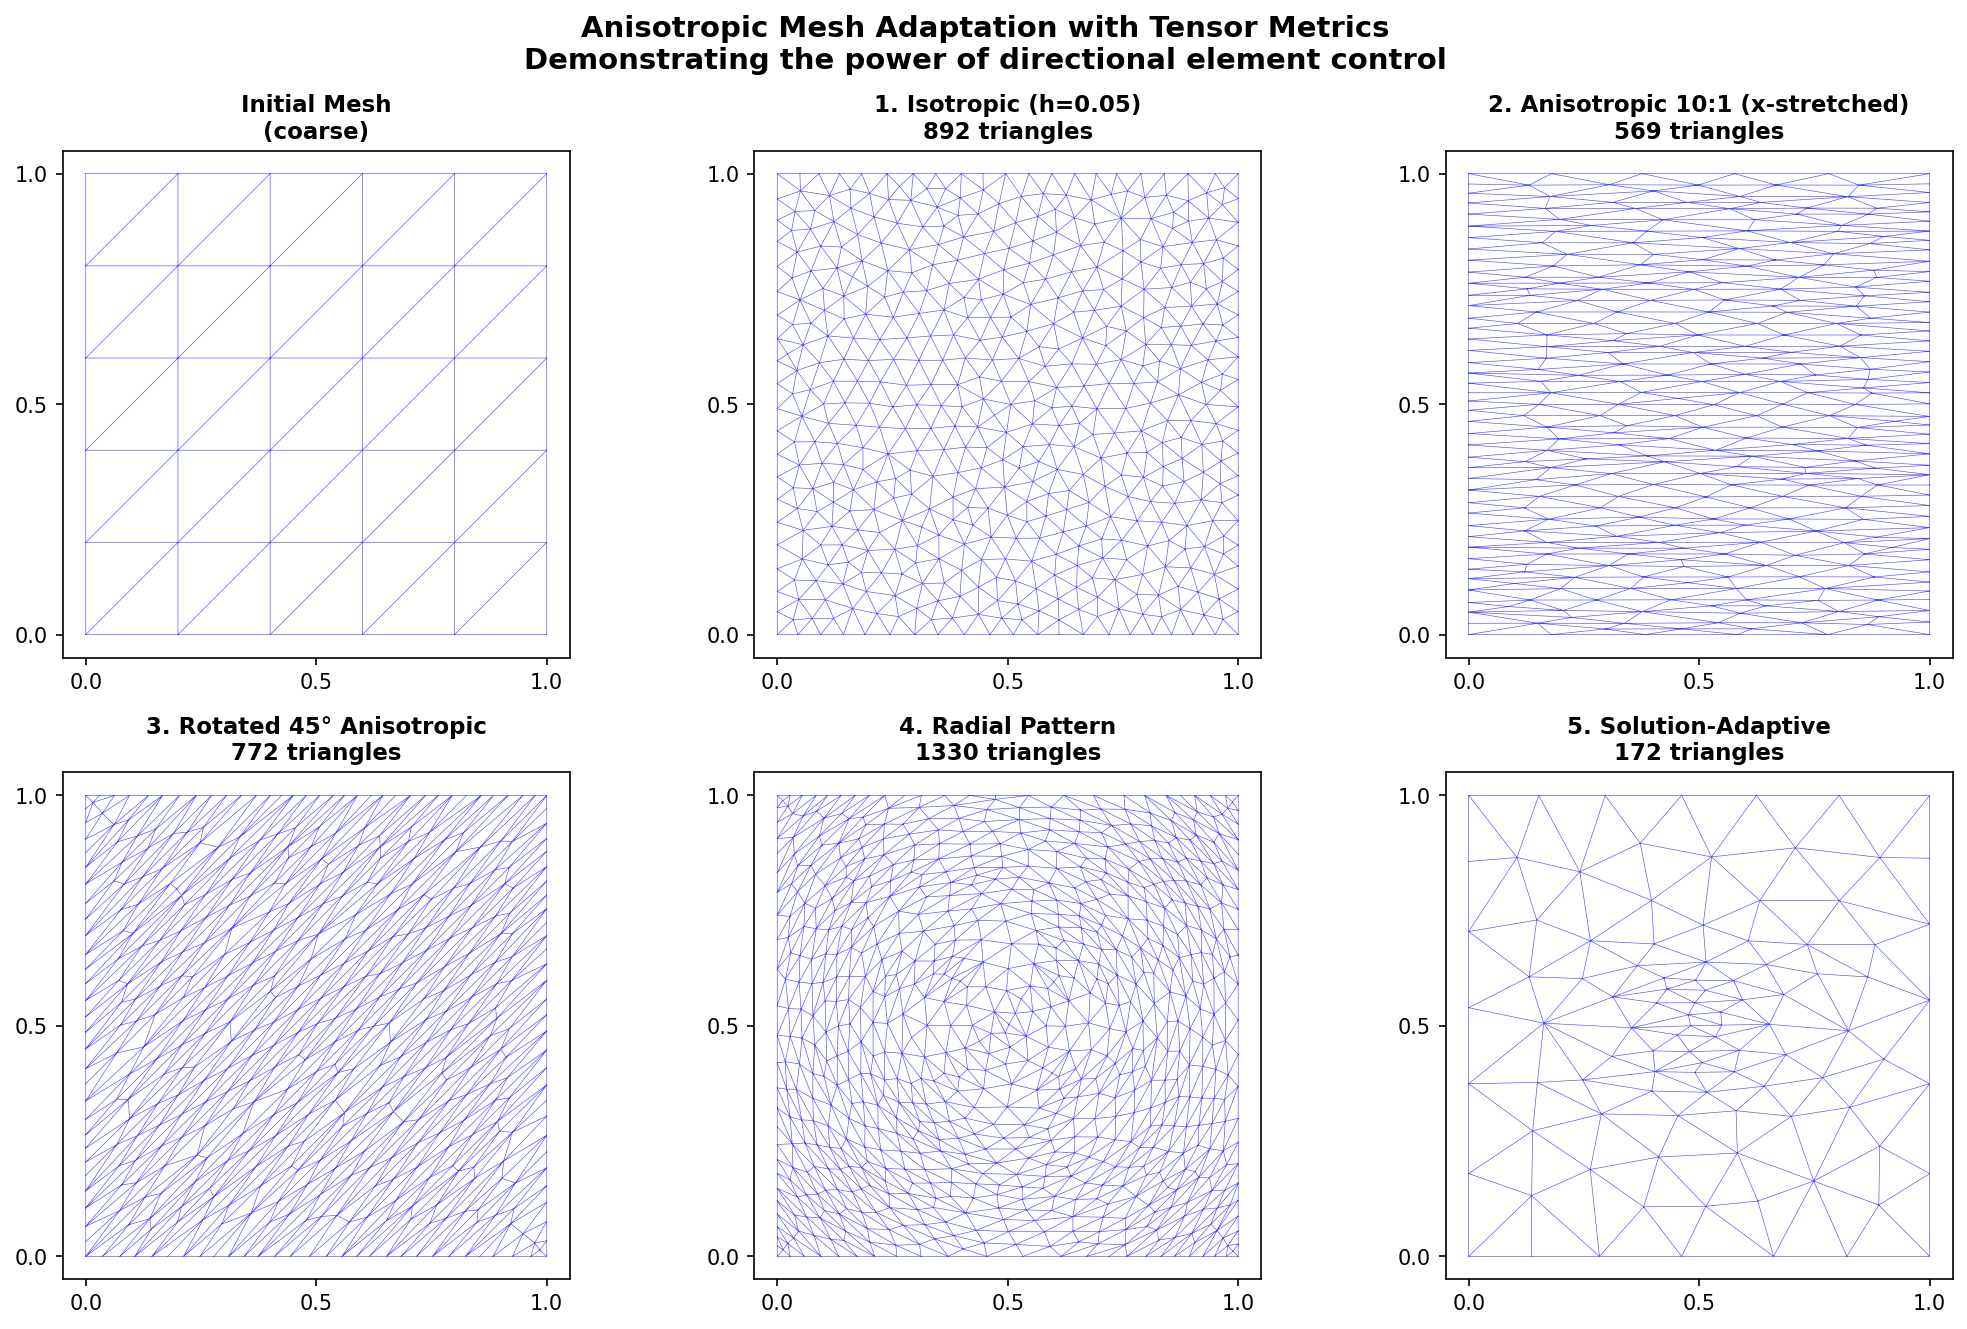
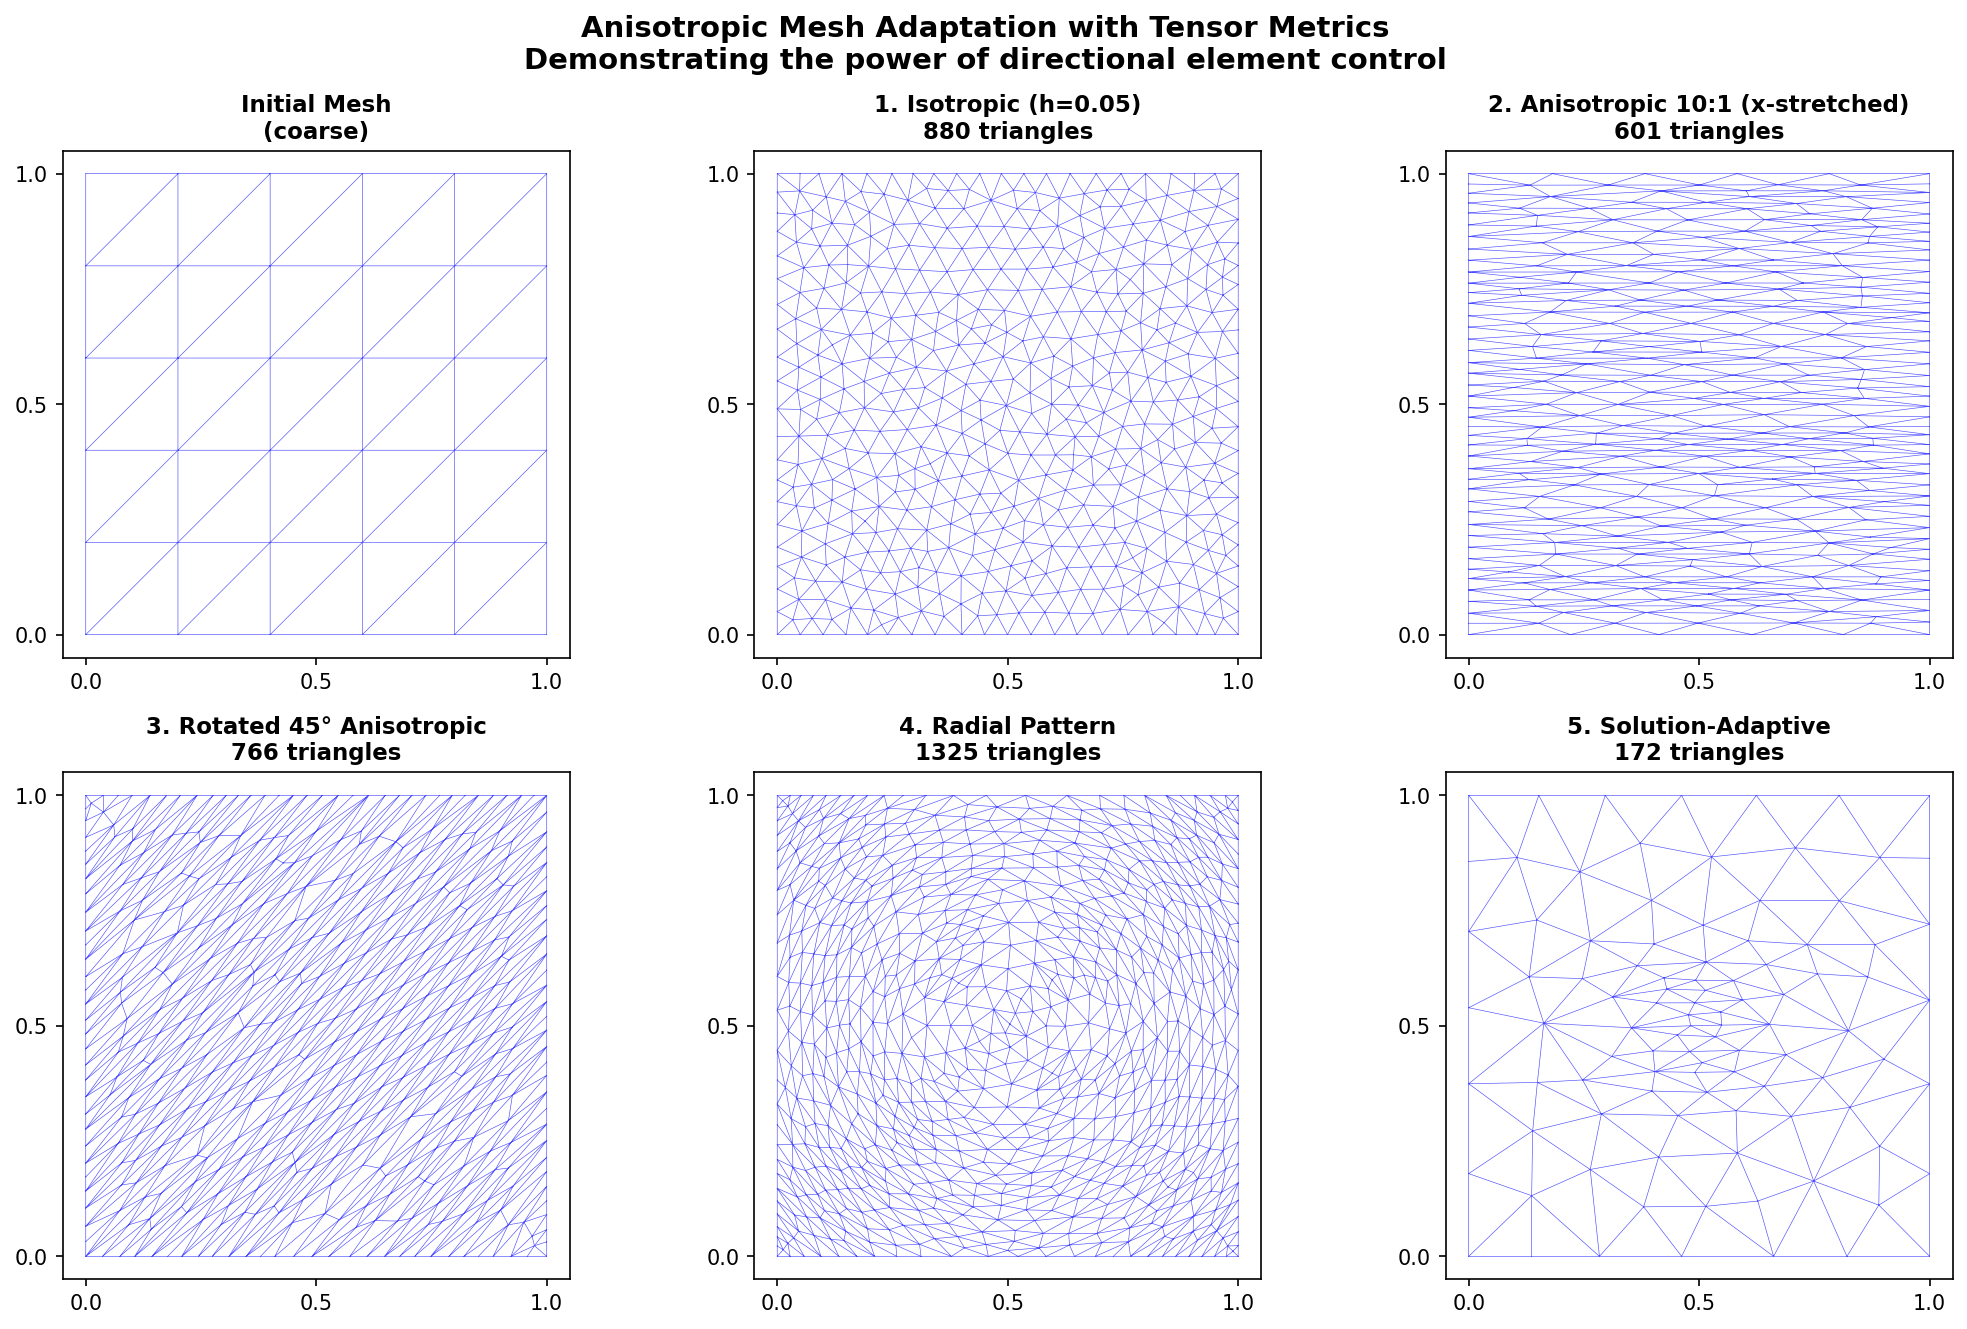
feat(pv-plugin): close remaining Mesh gaps on .mmg accessor
Adds the MMG-specific operations that have no native PyVista equivalent
and would otherwise block deprecation:

- adjacent_elements(idx): MMG's 1-based element adjacency, distinct from
  PyVista's cell_neighbors which uses VTK 0-based topology.
- vertex_neighbors(idx): MMG's 1-based vertex adjacency, distinct from
  PyVista's point_neighbors.
- center_of_mass(): volume-weighted (3D) or area-weighted (2D/surface)
  centroid; PyVista's dataset.center is the unweighted arithmetic mean.

Mesh.checkpoint() and Mesh.update_from() are intentionally NOT mirrored:
the accessor's stateless return-a-new-dataset model makes them moot —
users keep snapshots via Python variable assignment and dataset.copy().
The migration guide in the deprecation PR will cover this.

diff --git a/src/mmgpy/_pv_plugin.py b/src/mmgpy/_pv_plugin.py
@@ -468,5 +468,38 @@ class MmgAccessor:
 
         return Mesh(self._dataset).get_element_qualities()
 
+    def adjacent_elements(self, idx: int) -> NDArray[np.int32]:
+        """Return MMG-adjacency neighbors of element *idx* (1-indexed).
+
+        Distinct from :meth:`pyvista.DataSet.cell_neighbors`, which uses
+        VTK's 0-based topology. Useful when migrating code that relied on
+        ``Mesh.get_adjacent_elements``.
+        """
+        from mmgpy._mesh import Mesh  # noqa: PLC0415
+
+        return Mesh(self._dataset).get_adjacent_elements(idx)
+
+    def vertex_neighbors(self, idx: int) -> NDArray[np.int32]:
+        """Return MMG-adjacency neighbors of vertex *idx* (1-indexed).
+
+        Distinct from :meth:`pyvista.DataSet.point_neighbors`, which uses
+        VTK's 0-based topology. Useful when migrating code that relied on
+        ``Mesh.get_vertex_neighbors``.
+        """
+        from mmgpy._mesh import Mesh  # noqa: PLC0415
+
+        return Mesh(self._dataset).get_vertex_neighbors(idx)
+
+    def center_of_mass(self) -> NDArray[np.float64]:
+        """Return the volume-weighted (3D) or area-weighted (2D/surface) centroid.
+
+        Distinct from :attr:`pyvista.DataSet.center`, which is the
+        arithmetic mean of point coordinates without volume/area
+        weighting.
+        """
+        from mmgpy._mesh import Mesh  # noqa: PLC0415
+
+        return Mesh(self._dataset).get_center_of_mass()
+
 
 __all__ = ["MmgAccessor", "read_mesh", "write_mesh"]

diff --git a/tests/pv_plugin_test.py b/tests/pv_plugin_test.py
@@ -350,6 +350,36 @@ def test_accessor_remesh_local_sizing_densifies_region() -> None:
     assert constrained.n_cells > baseline.n_cells
 
 
+def test_accessor_adjacent_elements_returns_neighbors() -> None:
+    """adjacent_elements returns MMG's 1-based element-to-element adjacency."""
+    tets = _make_tet_mesh()
+    neighbors = tets.mmg.adjacent_elements(1)
+
+    assert isinstance(neighbors, np.ndarray)
+    assert neighbors.dtype == np.int32
+
+
+def test_accessor_vertex_neighbors_returns_neighbors() -> None:
+    """vertex_neighbors returns MMG's 1-based vertex-to-vertex adjacency."""
+    tets = _make_tet_mesh()
+    neighbors = tets.mmg.vertex_neighbors(1)
+
+    assert isinstance(neighbors, np.ndarray)
+    assert neighbors.dtype == np.int32
+    assert len(neighbors) > 0
+
+
+def test_accessor_center_of_mass_is_weighted() -> None:
+    """center_of_mass returns the volume-weighted centroid for tet meshes."""
+    tets = _dense_tets()
+    weighted = tets.mmg.center_of_mass()
+
+    assert weighted.shape == (3,)
+    # Cube centered at (0.5, 0.5, 0.5) — both arithmetic and weighted means
+    # should be near the center, but the weighted variant should not crash.
+    np.testing.assert_allclose(weighted, np.array([0.5, 0.5, 0.5]), atol=0.05)
+
+
 def test_accessor_remesh_unknown_local_sizing_shape_raises() -> None:
     """An unrecognized 'shape' key in a sizing spec raises ValueError."""
     surf = _make_surface_mesh()

diff --git a/docs/tutorials/pyvista-integration.md b/docs/tutorials/pyvista-integration.md
@@ -383,6 +383,16 @@ print(report.quality.mean, report.is_valid)
 qualities = mesh.mmg.element_qualities()
 ```
 
+### MMG-specific topology and centroid
+
+PyVista exposes 0-based VTK adjacency via `dataset.cell_neighbors(idx)` and `dataset.point_neighbors(idx)`. When you specifically need MMG's 1-based adjacency or its volume/area-weighted centroid (distinct from `dataset.center`, which is the unweighted arithmetic mean), use the accessor:
+
+```python
+mesh.mmg.adjacent_elements(1)   # MMG-adjacent elements of element 1
+mesh.mmg.vertex_neighbors(1)    # MMG-adjacent vertices of vertex 1
+mesh.mmg.center_of_mass()       # volume-weighted (3D) or area-weighted (2D)
+```
+
 ### Mesh kind
 
 ```python